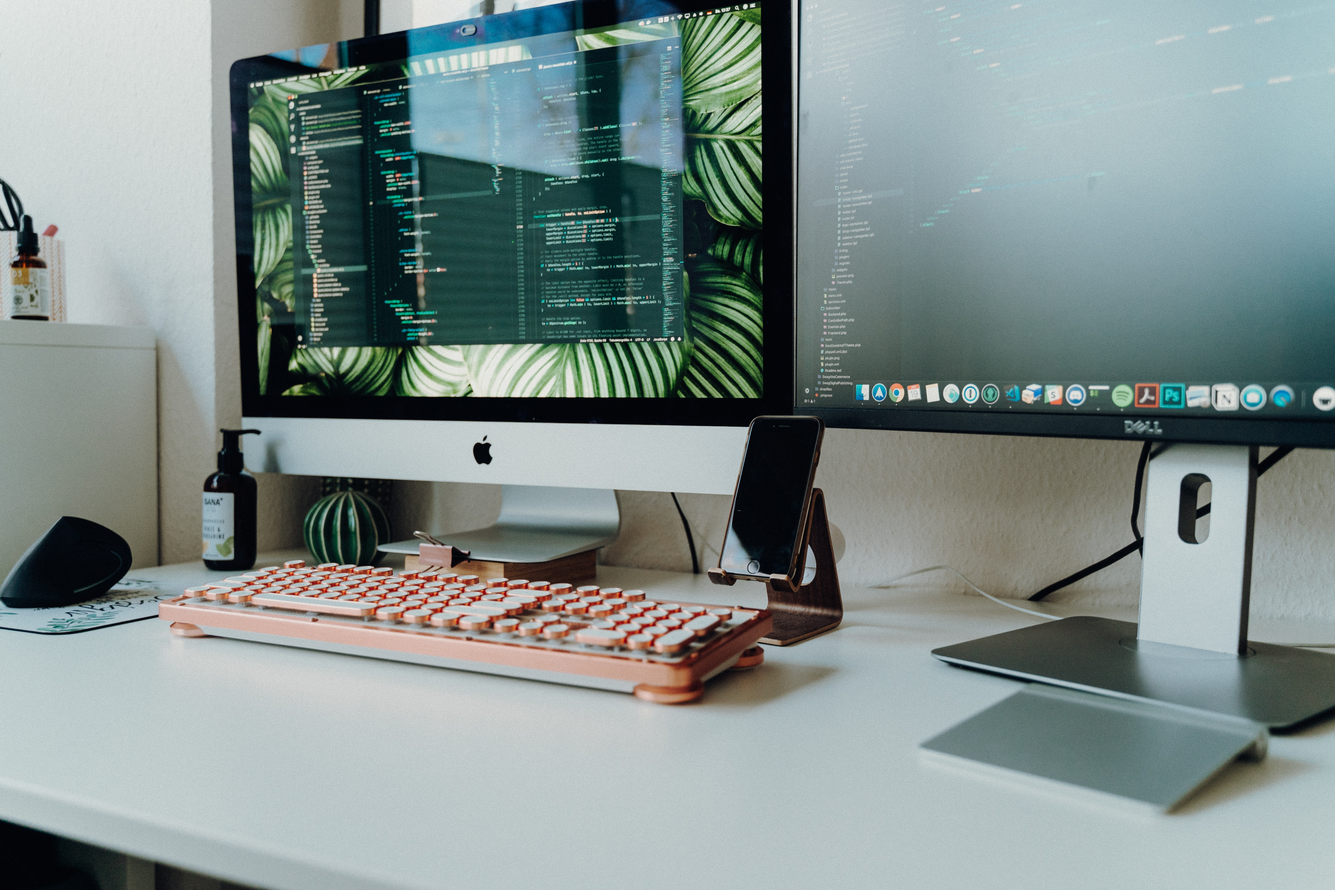
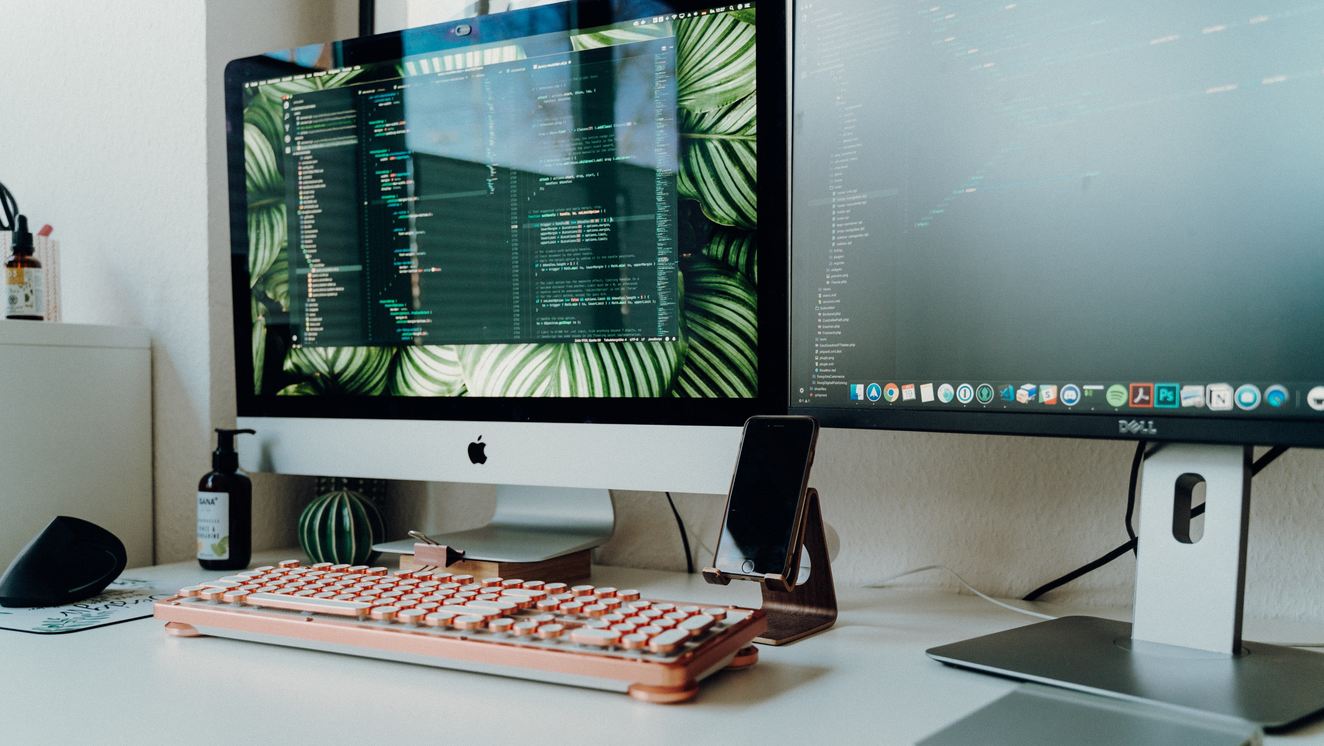
Updated Activity 5

diff --git a/activity-5/css/master.css b/activity-5/css/master.css
@@ -16,14 +16,14 @@ header{
 
 .header-image{
     position: relative;
-    text-align: right;
-    color: rgb(252, 232, 218);
+    text-align: left;
+    color: white;
 }
 
 .header-image-text{
     position: absolute;
     top: 8px;
-    right: 20px;
+    left: 20px;
     font-size: 5rem;
     width: 60%;
 }
@@ -32,7 +32,7 @@ img{
     width: 100%;
     object-fit: cover;
     object-position: center;
-    filter: brightness(80%);
+    filter: brightness(75%);
 }
 
 .main{
@@ -49,9 +49,19 @@ img{
     margin-left: 1%;
     padding: 1.5%;
     height: 300px;
-    border: 1px solid black;
+    border: 1px solid rgb(125, 114, 224);
     border-radius: 2%;
+    color: black;
 }
+
+.package-container:hover{
+    background-color: rgb(255, 253, 249);
+}
+
+#p1-name, #p2-name, #p3-name{
+    color: rgb(57, 44, 172);
+}
+
 
 #p1-url, #p2-url, #p3-url{
     display: none;
@@ -59,13 +69,20 @@ img{
 
 .learn-more{
     margin: 0 auto;
-    background-color: black;
+    background-color: rgb(57, 44, 172);
     width: 40%;
     padding-top: 0.75rem;
     padding-bottom: 0.75rem;
     text-align: center;
     border-radius: 9px;
     
+}
+
+.learn-more:hover{
+    background-color: rgb(125, 114, 224);
+    width: 42%;
+    padding-top: 0.85rem;
+    padding-bottom: 0.85rem;
 }
 
 a{

diff --git a/activity-5/index.html b/activity-5/index.html
@@ -12,7 +12,7 @@
 <body>
     <header>
         <div class="header-image">
-            <img src="images/actfive1.jpg" alt="Header Image">
+            <img src="images/actfive4.jpg" alt="Header Image">
             <h1 class="header-image-text">The Best VSCode Extensions for Front End Developers</h1>
             
         </div>
